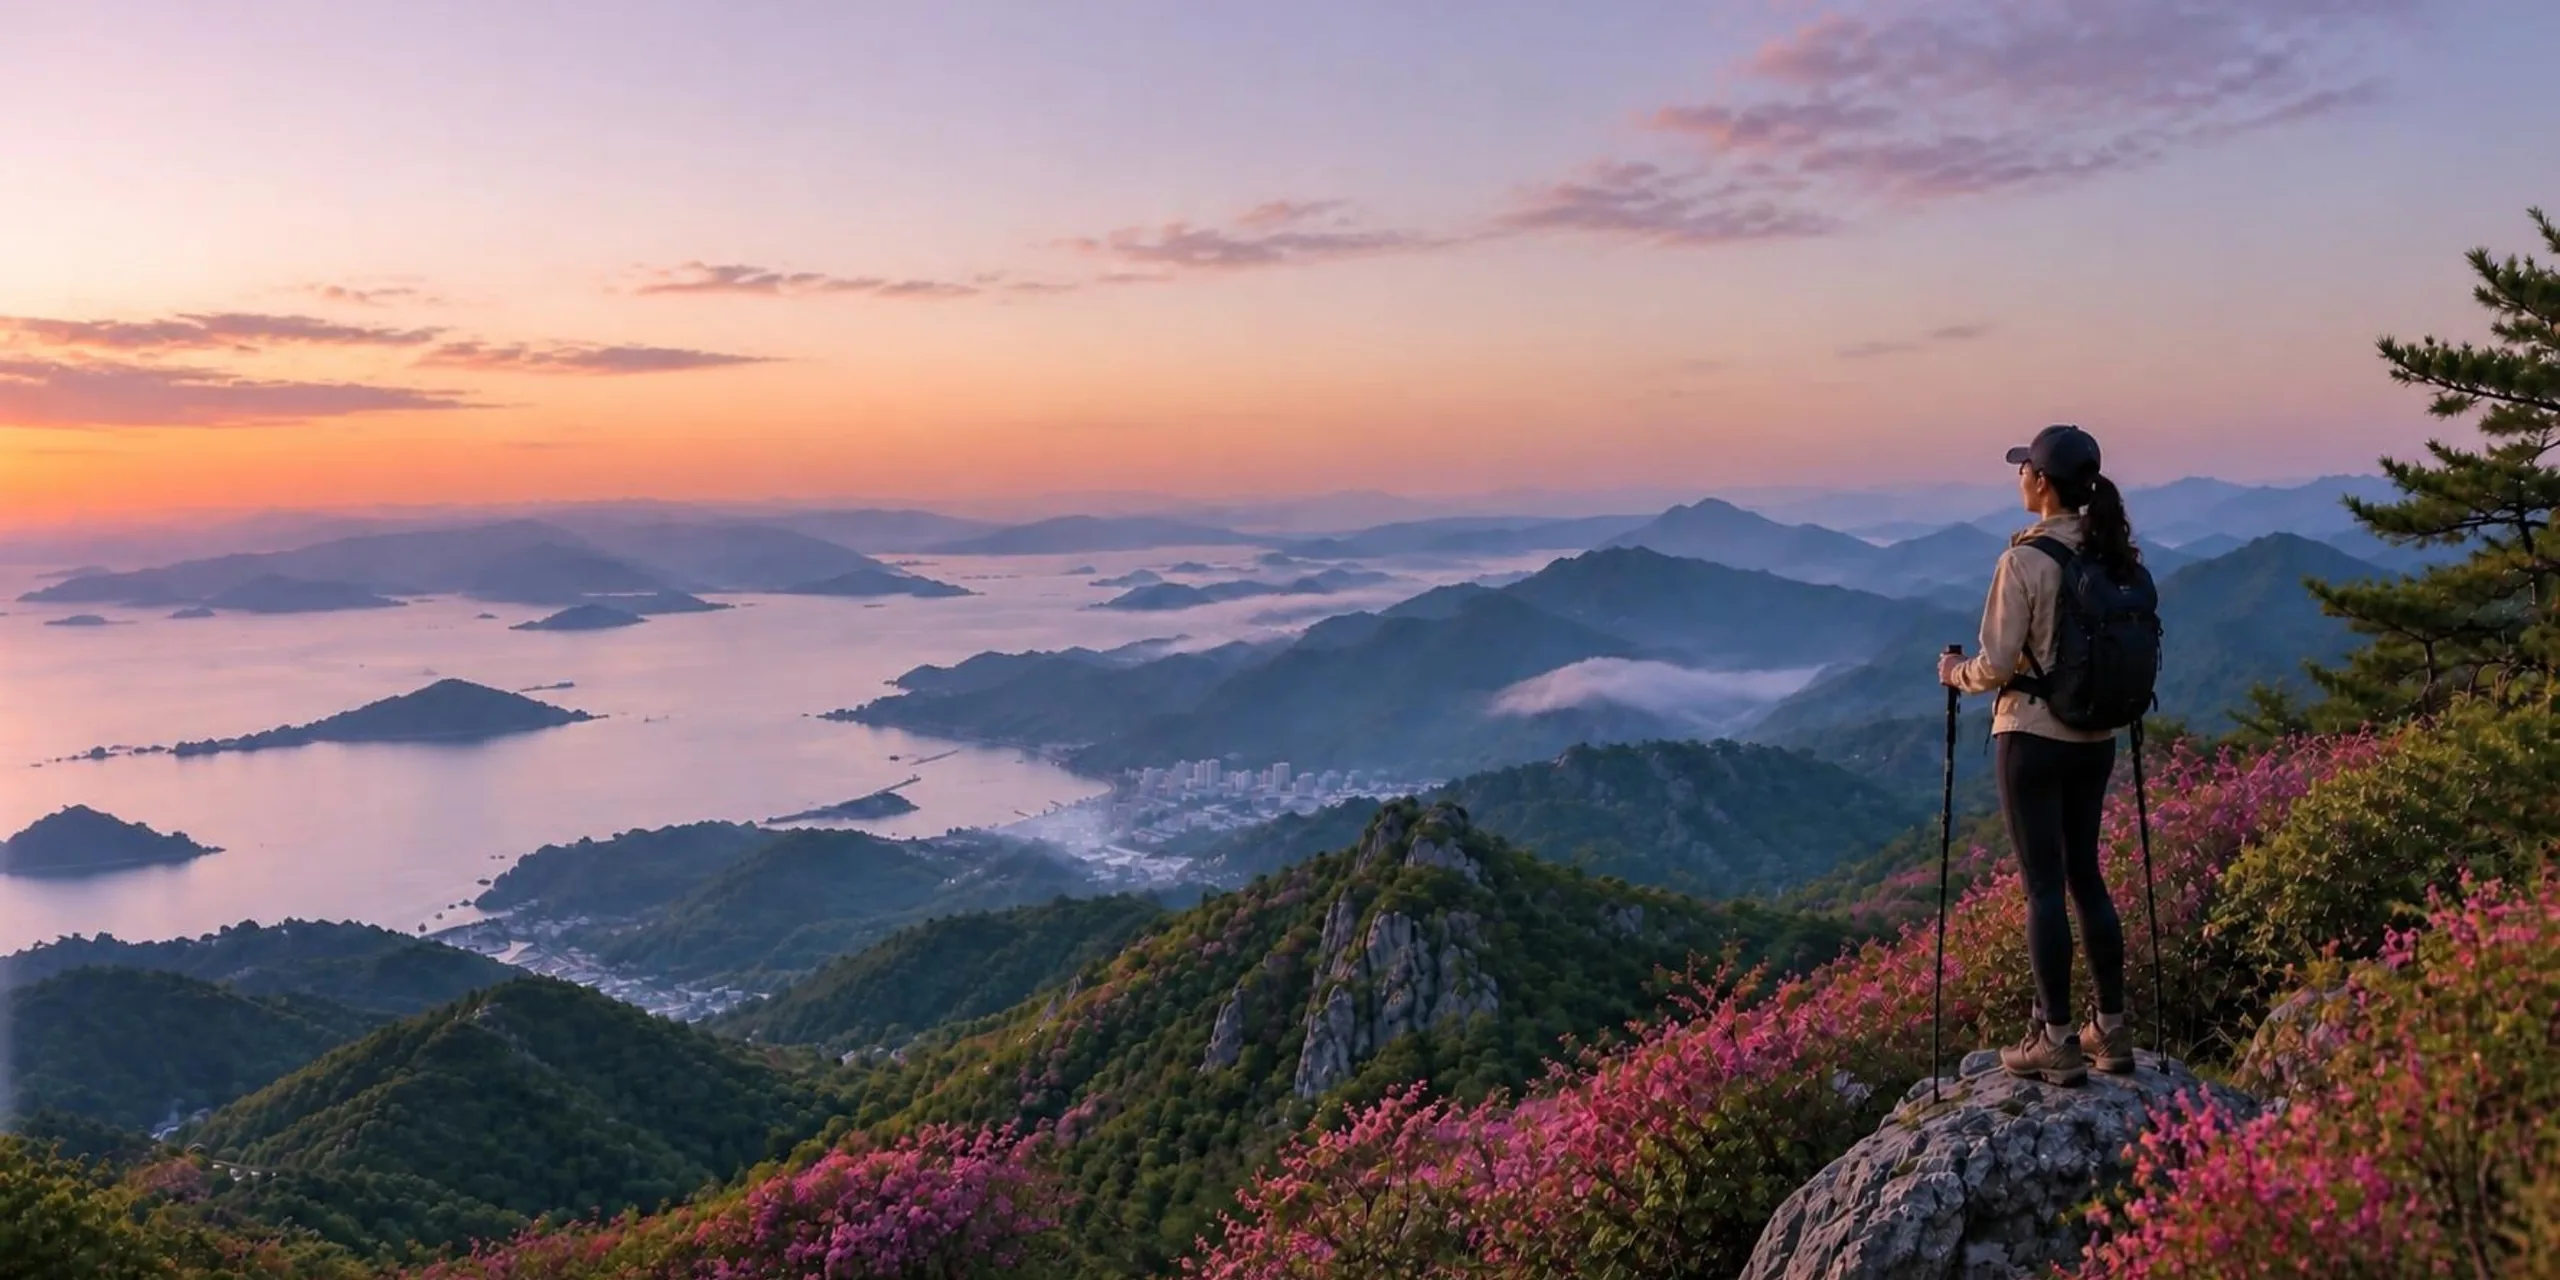
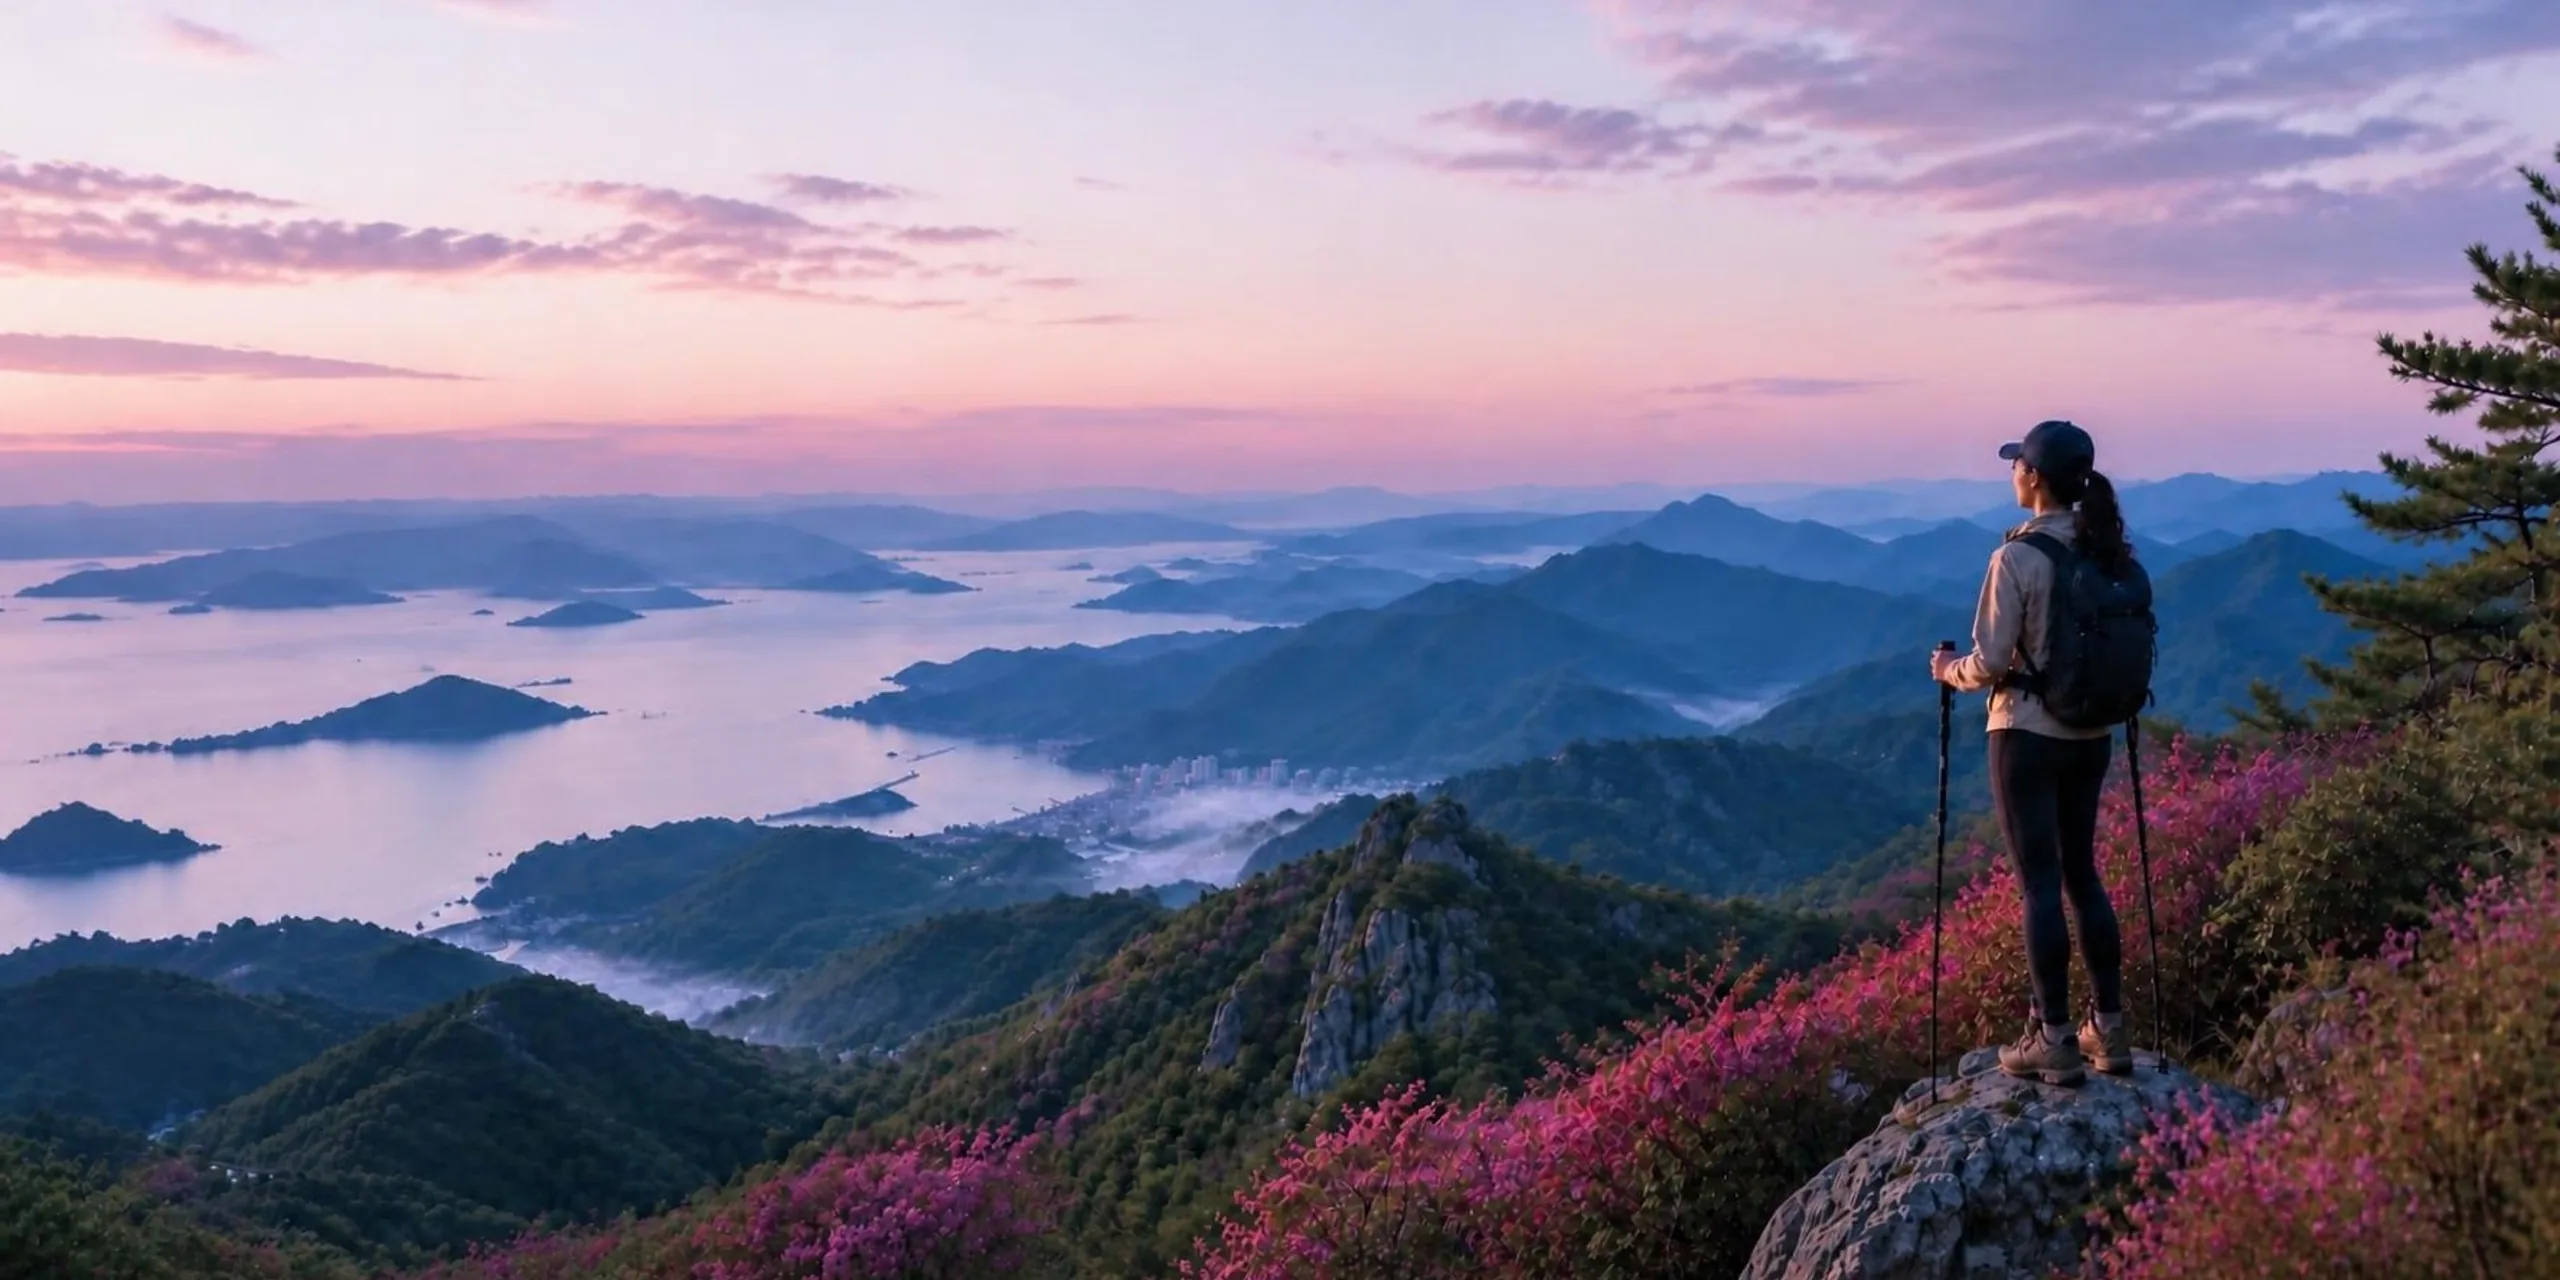
히어로 봄 새벽 v7 적용 (승인 참조 기준 검수 통과) (#35)
- 사용자 승인 참조(신발 기준)로 재생성, 신발 형태 기준과 동일 확인
- 다리 2개·폴 2개, 발목/부츠 윤곽 단일, 배경 결함 없음
- READY에 spring-dawn만 노출

Claude-Session: https://claude.ai/code/session_01TTPn3ts8fEyWREDupZmwxM

diff --git a/_src.html b/_src.html
@@ -13,7 +13,7 @@
 (function(){var k="";try{var d=new Date(),M=d.getMonth()+1,h=d.getHours();
 var s=M>=3&&M<=5?"spring":M>=6&&M<=8?"summer":M>=9&&M<=11?"autumn":"winter";
 var t=h>=4&&h<7?"dawn":h>=7&&h<17?"day":h>=17&&h<21?"evening":"night";k=s+"-"+t;
-var READY={};/* 검수 통과분만 노출, 나머지는 원본 히어로 */
+var READY={"spring-dawn":1};/* 검수 통과분만 노출, 나머지는 원본 히어로 */
 window.__heroReady=READY;if(!READY[k])k="";
 var q=/[?&]hero=((?:spring|summer|autumn|winter)-(?:dawn|day|evening|night))(?:&|$)/.exec(location.search);if(q&&READY[q[1]])k=q[1];}catch(e){k="";}
 window.__hero=k;var a=k?"/img/hero/"+k:"/img/hero",b=k?"/img/hero/"+k+"-m.webp":"/img/hero-m.webp";
@@ -333,7 +333,7 @@ footer{background:var(--dark);color:rgba(255,255,255,.5);border-top:1px solid rg
       <img class="bg" id="heroImg" width="2560" height="1280" alt="산 정상 바위에 서서 다도해와 겹겹의 산줄기를 바라보는 등산객" fetchpriority="high" />
     </picture>
     <script>(function(){var k=window.__hero,i=document.getElementById("heroImg"),s=document.getElementById("heroSrc"),w=document.getElementById("bgwrap");
-var C={"spring-dawn":["#b59ba3","#4f474c"],"spring-day":["#8aa9c1","#59584b"],"spring-evening":["#d19b6d","#6d4e2d"],"spring-night":["#11253b","#0e1217"],"summer-dawn":["#dcbba1","#5f5642"],"summer-day":["#75abe1","#3a5f55"],"summer-evening":["#c78665","#594429"],"summer-night":["#0f2951","#0c1826"],"autumn-dawn":["#9482ba","#5c4159"],"autumn-day":["#81b5db","#6b5e5b"],"autumn-evening":["#c69164","#693821"],"autumn-night":["#1b293a","#17151a"],"winter-dawn":["#a8acce","#475986"],"winter-day":["#afcfee","#77879c"],"winter-evening":["#8d7575","#4e3f4f"],"winter-night":["#182742","#1c273d"]};function fb(){s.srcset="/img/hero-m.webp";i.src="/img/hero.webp";w.style.backgroundImage="";}
+var C={"spring-dawn":["#b5a7c2","#434456"],"spring-day":["#8aa9c1","#59584b"],"spring-evening":["#d19b6d","#6d4e2d"],"spring-night":["#11253b","#0e1217"],"summer-dawn":["#dcbba1","#5f5642"],"summer-day":["#75abe1","#3a5f55"],"summer-evening":["#c78665","#594429"],"summer-night":["#0f2951","#0c1826"],"autumn-dawn":["#9482ba","#5c4159"],"autumn-day":["#81b5db","#6b5e5b"],"autumn-evening":["#c69164","#693821"],"autumn-night":["#1b293a","#17151a"],"winter-dawn":["#a8acce","#475986"],"winter-day":["#afcfee","#77879c"],"winter-evening":["#8d7575","#4e3f4f"],"winter-night":["#182742","#1c273d"]};function fb(){s.srcset="/img/hero-m.webp";i.src="/img/hero.webp";w.style.backgroundImage="";}
 if(!k){fb();return;}i.addEventListener("error",function(){if(!i.getAttribute("data-fb")){i.setAttribute("data-fb","1");fb();}});
 if(C[k])w.style.backgroundImage="linear-gradient(180deg,"+C[k][0]+","+C[k][1]+")";
 s.srcset="/img/hero/"+k+"-m.webp";i.src="/img/hero/"+k+".webp";})();</script>

diff --git a/index.html b/index.html
@@ -13,7 +13,7 @@
 (function(){var k="";try{var d=new Date(),M=d.getMonth()+1,h=d.getHours();
 var s=M>=3&&M<=5?"spring":M>=6&&M<=8?"summer":M>=9&&M<=11?"autumn":"winter";
 var t=h>=4&&h<7?"dawn":h>=7&&h<17?"day":h>=17&&h<21?"evening":"night";k=s+"-"+t;
-var READY={};/* 검수 통과분만 노출, 나머지는 원본 히어로 */
+var READY={"spring-dawn":1};/* 검수 통과분만 노출, 나머지는 원본 히어로 */
 window.__heroReady=READY;if(!READY[k])k="";
 var q=/[?&]hero=((?:spring|summer|autumn|winter)-(?:dawn|day|evening|night))(?:&|$)/.exec(location.search);if(q&&READY[q[1]])k=q[1];}catch(e){k="";}
 window.__hero=k;var a=k?"/img/hero/"+k:"/img/hero",b=k?"/img/hero/"+k+"-m.webp":"/img/hero-m.webp";
@@ -333,7 +333,7 @@ footer{background:var(--dark);color:rgba(255,255,255,.5);border-top:1px solid rg
       <img class="bg" id="heroImg" width="2560" height="1280" alt="산 정상 바위에 서서 다도해와 겹겹의 산줄기를 바라보는 등산객" fetchpriority="high" />
     </picture>
     <script>(function(){var k=window.__hero,i=document.getElementById("heroImg"),s=document.getElementById("heroSrc"),w=document.getElementById("bgwrap");
-var C={"spring-dawn":["#b59ba3","#4f474c"],"spring-day":["#8aa9c1","#59584b"],"spring-evening":["#d19b6d","#6d4e2d"],"spring-night":["#11253b","#0e1217"],"summer-dawn":["#dcbba1","#5f5642"],"summer-day":["#75abe1","#3a5f55"],"summer-evening":["#c78665","#594429"],"summer-night":["#0f2951","#0c1826"],"autumn-dawn":["#9482ba","#5c4159"],"autumn-day":["#81b5db","#6b5e5b"],"autumn-evening":["#c69164","#693821"],"autumn-night":["#1b293a","#17151a"],"winter-dawn":["#a8acce","#475986"],"winter-day":["#afcfee","#77879c"],"winter-evening":["#8d7575","#4e3f4f"],"winter-night":["#182742","#1c273d"]};function fb(){s.srcset="/img/hero-m.webp";i.src="/img/hero.webp";w.style.backgroundImage="";}
+var C={"spring-dawn":["#b5a7c2","#434456"],"spring-day":["#8aa9c1","#59584b"],"spring-evening":["#d19b6d","#6d4e2d"],"spring-night":["#11253b","#0e1217"],"summer-dawn":["#dcbba1","#5f5642"],"summer-day":["#75abe1","#3a5f55"],"summer-evening":["#c78665","#594429"],"summer-night":["#0f2951","#0c1826"],"autumn-dawn":["#9482ba","#5c4159"],"autumn-day":["#81b5db","#6b5e5b"],"autumn-evening":["#c69164","#693821"],"autumn-night":["#1b293a","#17151a"],"winter-dawn":["#a8acce","#475986"],"winter-day":["#afcfee","#77879c"],"winter-evening":["#8d7575","#4e3f4f"],"winter-night":["#182742","#1c273d"]};function fb(){s.srcset="/img/hero-m.webp";i.src="/img/hero.webp";w.style.backgroundImage="";}
 if(!k){fb();return;}i.addEventListener("error",function(){if(!i.getAttribute("data-fb")){i.setAttribute("data-fb","1");fb();}});
 if(C[k])w.style.backgroundImage="linear-gradient(180deg,"+C[k][0]+","+C[k][1]+")";
 s.srcset="/img/hero/"+k+"-m.webp";i.src="/img/hero/"+k+".webp";})();</script>
